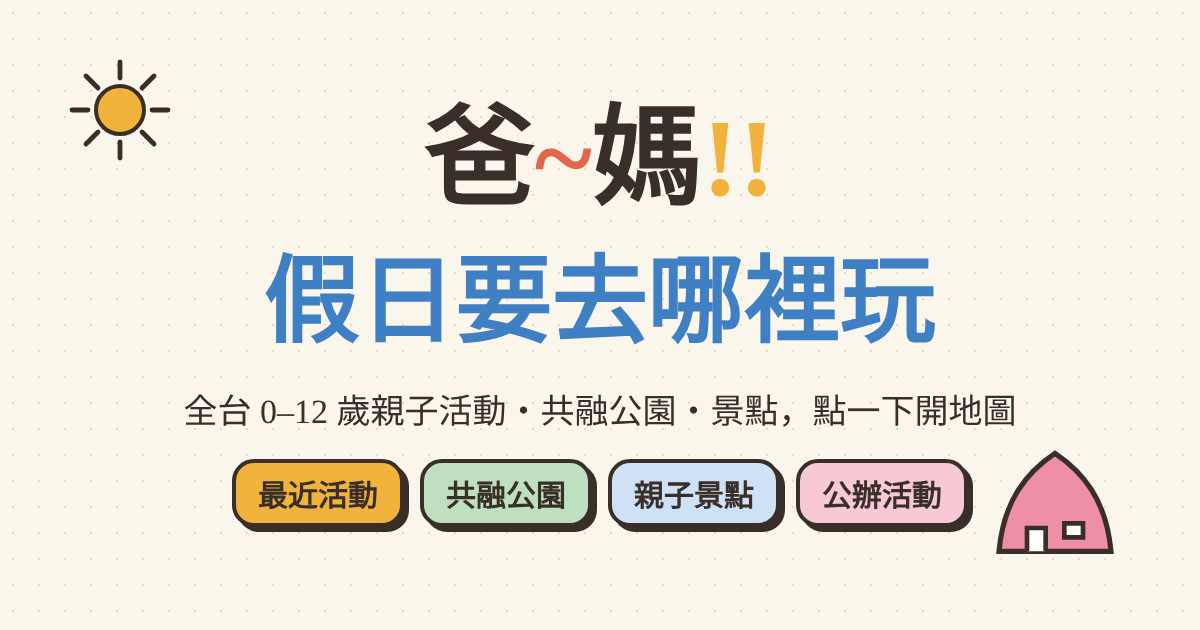
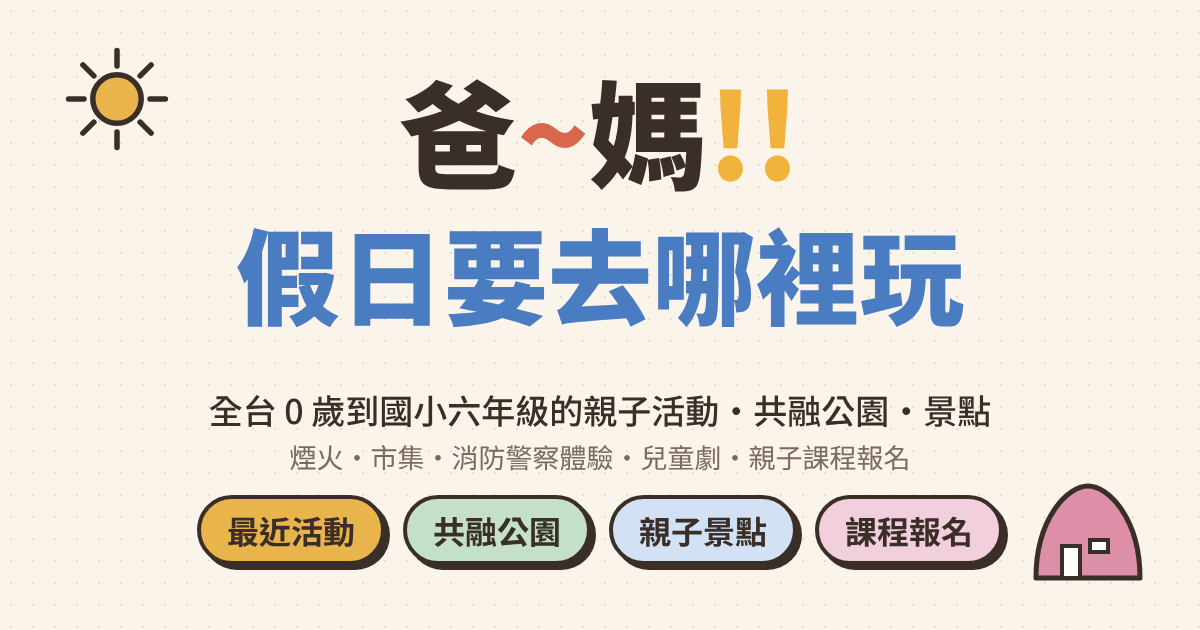
分享預覽圖更新：加入課程報名、煙火市集消防警察體驗，og:image 加版本參數讓社群重新抓圖
Claude-Session: https://claude.ai/code/session_01JLyucK5WFNwzf8owcJSJQm

diff --git a/index.html b/index.html
@@ -11,7 +11,7 @@
 <meta property="og:title" content="爸~媽!!假日要去哪裡玩｜全台親子活動・共融公園・親子景點">
 <meta property="og:description" content="這個週末帶小孩去哪？全台親子活動、共融公園、景點和親子課程報名一次找，依年齡和縣市篩選，點一下開地圖導航。">
 <meta property="og:url" content="https://baba-mama.pages.dev/">
-<meta property="og:image" content="https://baba-mama.pages.dev/og.png">
+<meta property="og:image" content="https://baba-mama.pages.dev/og.png?v=2">
 <meta property="og:image:width" content="1200">
 <meta property="og:image:height" content="630">
 <meta property="og:locale" content="zh_TW">
